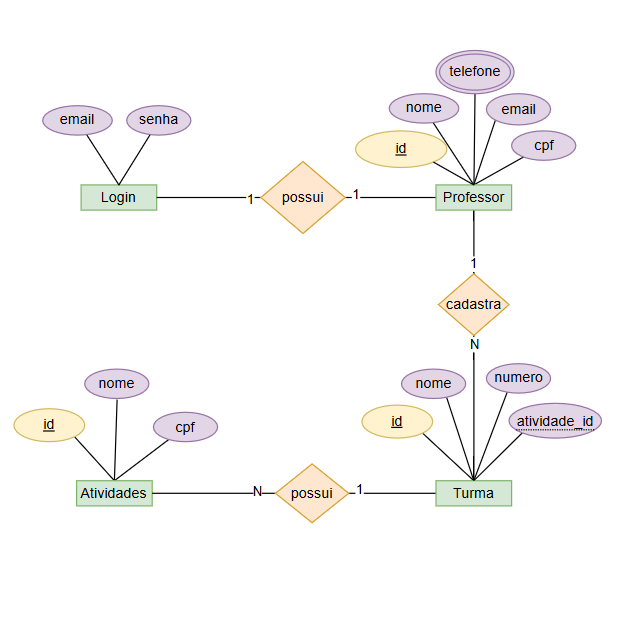
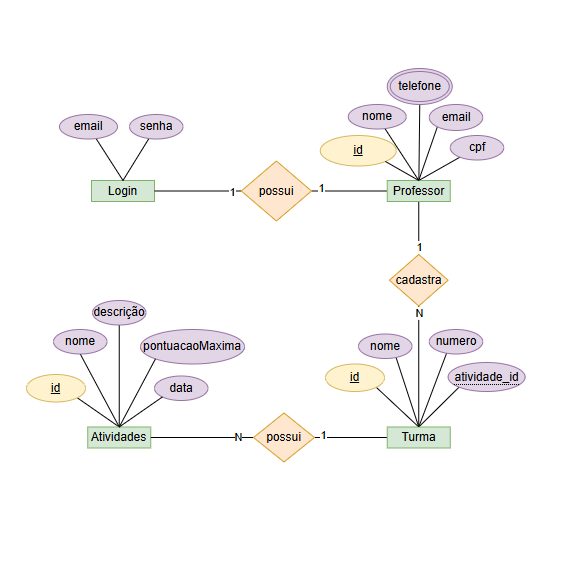
finalizado

Changed region(s): [[0.0, 0.0592, 0.9577, 0.8293]]

diff --git a/web/atividades.js b/web/atividades.js
@@ -2,39 +2,30 @@
 let turmaAtual = null;
 let atividadeParaExcluir = null;
 
-// Carrega turmaAtual do localStorage
 const turmaId = localStorage.getItem('turmaAtualId');
 if (turmaId) {
-    turmaAtual = { id: turmaId };
+    turmaAtual = { id: Number(turmaId) }; 
 } else {
-    // Se não houver turma selecionada, redireciona para a página principal
     window.location.href = 'principal.html';
 }
-// ...existing code...
-
-// Carrega as atividades da turma
-function carregarAtividades() {
+async function carregarAtividades() {
     const loading = document.getElementById('loading');
     const listaAtividades = document.getElementById('listaAtividades');
     const nenhumaAtividade = document.getElementById('nenhumaAtividade');
 
-    loading.style.display = 'block';
+    loading.style.display = 'none';
     listaAtividades.style.display = 'none';
     nenhumaAtividade.style.display = 'none';
 
-    setTimeout(() => {
-        const atividades = JSON.parse(localStorage.getItem(`atividades_${turmaAtual.id}`) || '[]');
+       const response = await fetch(`http://localhost:3000/turmas/${turmaAtual.id}/atividades`);
+    atividadesCarregadas = await response.json();
 
-        loading.style.display = 'none';
-
-        if (atividades.length === 0) {
-            nenhumaAtividade.style.display = 'block';
-        } else {
-            listaAtividades.style.display = 'grid';
-            renderizarAtividades(atividades);
-            if (!turmaAtual) return;
-        }
-    }, 500);
+    if (!atividadesCarregadas || atividadesCarregadas.length === 0) {
+        nenhumaAtividade.style.display = 'block';
+    } else {
+        listaAtividades.style.display = 'grid';
+        renderizarAtividades(atividadesCarregadas);
+    }
 }
 
 // Renderiza as atividades na tela
@@ -53,13 +44,13 @@ function criarCardAtividade(atividade) {
     const card = document.createElement('div');
     card.className = 'atividade-card';
 
-    const dataFormatada = formatarData(atividade.dataEntrega);
+    const dataFormatada = formatarData(atividade.data);
     const hoje = new Date();
-    const dataEntrega = new Date(atividade.dataEntrega);
+    const dataEntrega = new Date(atividade.data);
     const atrasada = dataEntrega < hoje;
 
     card.innerHTML = `
-        <h3>${atividade.titulo}</h3>
+        <h3>${atividade.nome}</h3>
         <div class="atividade-descricao">${atividade.descricao}</div>
         <div class="atividade-data">
             <span style="color: ${atrasada ? '#e74c3c' : '#27ae60'}">
@@ -76,9 +67,10 @@ function criarCardAtividade(atividade) {
     return card;
 }
 
-// Formata a data para exibição
 function formatarData(dataString) {
-    const data = new Date(dataString + 'T00:00:00');
+    if (!dataString) return '';
+    const data = new Date(dataString);
+    if (isNaN(data)) return '';
     const dia = String(data.getDate()).padStart(2, '0');
     const mes = String(data.getMonth() + 1).padStart(2, '0');
     const ano = data.getFullYear();
@@ -102,37 +94,35 @@ function fecharModalNovaAtividade() {
     document.getElementById('formNovaAtividade').reset();
 }
 
-// Cadastra uma nova atividade
-function cadastrarAtividade(e) {
+async function cadastrarAtividade(e) {
     e.preventDefault();
 
-    const novaAtividade = {
-        id: Date.now().toString(),
-        titulo: document.getElementById('tituloAtividade').value,
+    const atividade = {
+        nome: document.getElementById('tituloAtividade').value,
         descricao: document.getElementById('descricaoAtividade').value,
-        dataEntrega: document.getElementById('dataEntrega').value,
+        data: document.getElementById('dataEntrega').value,
         pontuacaoMaxima: parseFloat(document.getElementById('pontuacaoMaxima').value),
-        dataCriacao: new Date().toISOString()
+        turmaId: Number(turmaAtual.id)
     };
 
-    const atividades = JSON.parse(localStorage.getItem(`atividades_${turmaAtual.id}`) || '[]');
-    atividades.push(novaAtividade);
-    localStorage.setItem(`atividades_${turmaAtual.id}`, JSON.stringify(atividades));
+    await fetch('http://localhost:3000/atividades', {
+        method: 'POST',
+        headers: { 'Content-Type': 'application/json' },
+        body: JSON.stringify(atividade)
+    });
 
     fecharModalNovaAtividade();
     carregarAtividades();
 }
 
-// Abre o modal de edição
 function abrirModalEditar(atividadeId) {
-    const atividades = JSON.parse(localStorage.getItem(`atividades_${turmaAtual.id}`) || '[]');
-    const atividade = atividades.find(a => a.id === atividadeId);
+    const atividade = atividadesCarregadas.find(a => a.id == atividadeId);
 
     if (atividade) {
         document.getElementById('editAtividadeId').value = atividade.id;
-        document.getElementById('editTituloAtividade').value = atividade.titulo;
+        document.getElementById('editTituloAtividade').value = atividade.nome;
         document.getElementById('editDescricaoAtividade').value = atividade.descricao;
-        document.getElementById('editDataEntrega').value = atividade.dataEntrega;
+        document.getElementById('editDataEntrega').value = atividade.data.slice(0, 10); // yyyy-mm-dd
         document.getElementById('editPontuacaoMaxima').value = atividade.pontuacaoMaxima;
 
         document.getElementById('modalEditarAtividade').style.display = 'block';
@@ -145,27 +135,26 @@ function fecharModalEditarAtividade() {
     document.getElementById('formEditarAtividade').reset();
 }
 
-// Salva a edição da atividade
-function salvarEdicaoAtividade(e) {
+async function salvarEdicaoAtividade(e) {
     e.preventDefault();
 
     const atividadeId = document.getElementById('editAtividadeId').value;
-    const atividades = JSON.parse(localStorage.getItem(`atividades_${turmaAtual.id}`) || '[]');
-    const index = atividades.findIndex(a => a.id === atividadeId);
 
-    if (index !== -1) {
-        atividades[index] = {
-            ...atividades[index],
-            titulo: document.getElementById('editTituloAtividade').value,
-            descricao: document.getElementById('editDescricaoAtividade').value,
-            dataEntrega: document.getElementById('editDataEntrega').value,
-            pontuacaoMaxima: parseFloat(document.getElementById('editPontuacaoMaxima').value)
-        };
+    const atividadeEditada = {
+        nome: document.getElementById('editTituloAtividade').value,
+        descricao: document.getElementById('editDescricaoAtividade').value,
+        data: document.getElementById('editDataEntrega').value,
+        pontuacaoMaxima: parseFloat(document.getElementById('editPontuacaoMaxima').value),
+    };
 
-        localStorage.setItem(`atividades_${turmaAtual.id}`, JSON.stringify(atividades));
-        fecharModalEditarAtividade();
-        carregarAtividades();
-    }
+    await fetch(`http://localhost:3000/atividades/${atividadeId}`, {
+        method: 'PUT',
+        headers: { 'Content-Type': 'application/json' },
+        body: JSON.stringify(atividadeEditada)
+    });
+
+    fecharModalEditarAtividade();
+    carregarAtividades();
 }
 
 // Abre o modal de exclusão
@@ -223,3 +212,7 @@ window.onclick = function (event) {
     }
 }
 
+window.onload = function() {
+    carregarAtividades();
+    configurarEventos && configurarEventos(); 
+};

diff --git a/api/server.js b/api/server.js
@@ -134,7 +134,7 @@ app.delete('/turmas/:id', async (req, res) => {
 
 
 app.post('/atividades', async (req, res) => {
-  const { nome, descricao, data, turmaId } = req.body;
+  const { nome, descricao, data, pontuacaoMaxima, turmaId } = req.body;
 
   try {
     const atividade = await prisma.atividade.create({
@@ -142,6 +142,7 @@ app.post('/atividades', async (req, res) => {
         nome,
         descricao,
         data: new Date(data),
+        pontuacaoMaxima,
         turma: {
           connect: { id: turmaId },
         },
@@ -150,7 +151,7 @@ app.post('/atividades', async (req, res) => {
 
     res.status(201).json(atividade);
   } catch (error) {
-    res.status(500).json({ message: 'Erro ao cadastrar atividade.' });
+    res.status(500).json({ message: 'Erro ao cadastrar atividade.', error });
   }
 });
 
@@ -169,6 +170,25 @@ app.get('/turmas/:id/atividades', async (req, res) => {
   }
 });
 
+app.put('/atividades/:id', async (req, res) => {
+  const { id } = req.params;
+  const { nome, descricao, data, pontuacaoMaxima } = req.body;
+
+  try {
+    const atividade = await prisma.atividade.update({
+      where: { id: Number(id) },
+      data: {
+        nome,
+        descricao,
+        data: new Date(data),
+        pontuacaoMaxima,
+      },
+    });
+    res.status(200).json(atividade);
+  } catch (error) {
+    res.status(500).json({ message: 'Erro ao atualizar atividade.', error });
+  }
+});
 
 app.post('/logout', (req, res) => {
   res.status(200).json({ message: 'Logout efetuado com sucesso.' });

diff --git a/web/principal.js b/web/principal.js
@@ -119,9 +119,9 @@ async function confirmarExclusao() {
 }
 
 function verAtividades(turmaId) {
-    window.location.href = `atividades.html?turma=${turmaId}`;
+    localStorage.setItem('turmaAtualId', turmaId); // <-- Adicione esta linha
+    window.location.href = `atividades.html`;
 }
-
 function logout() {
     localStorage.removeItem("professorLogado");
     window.location.href = "login.html";
